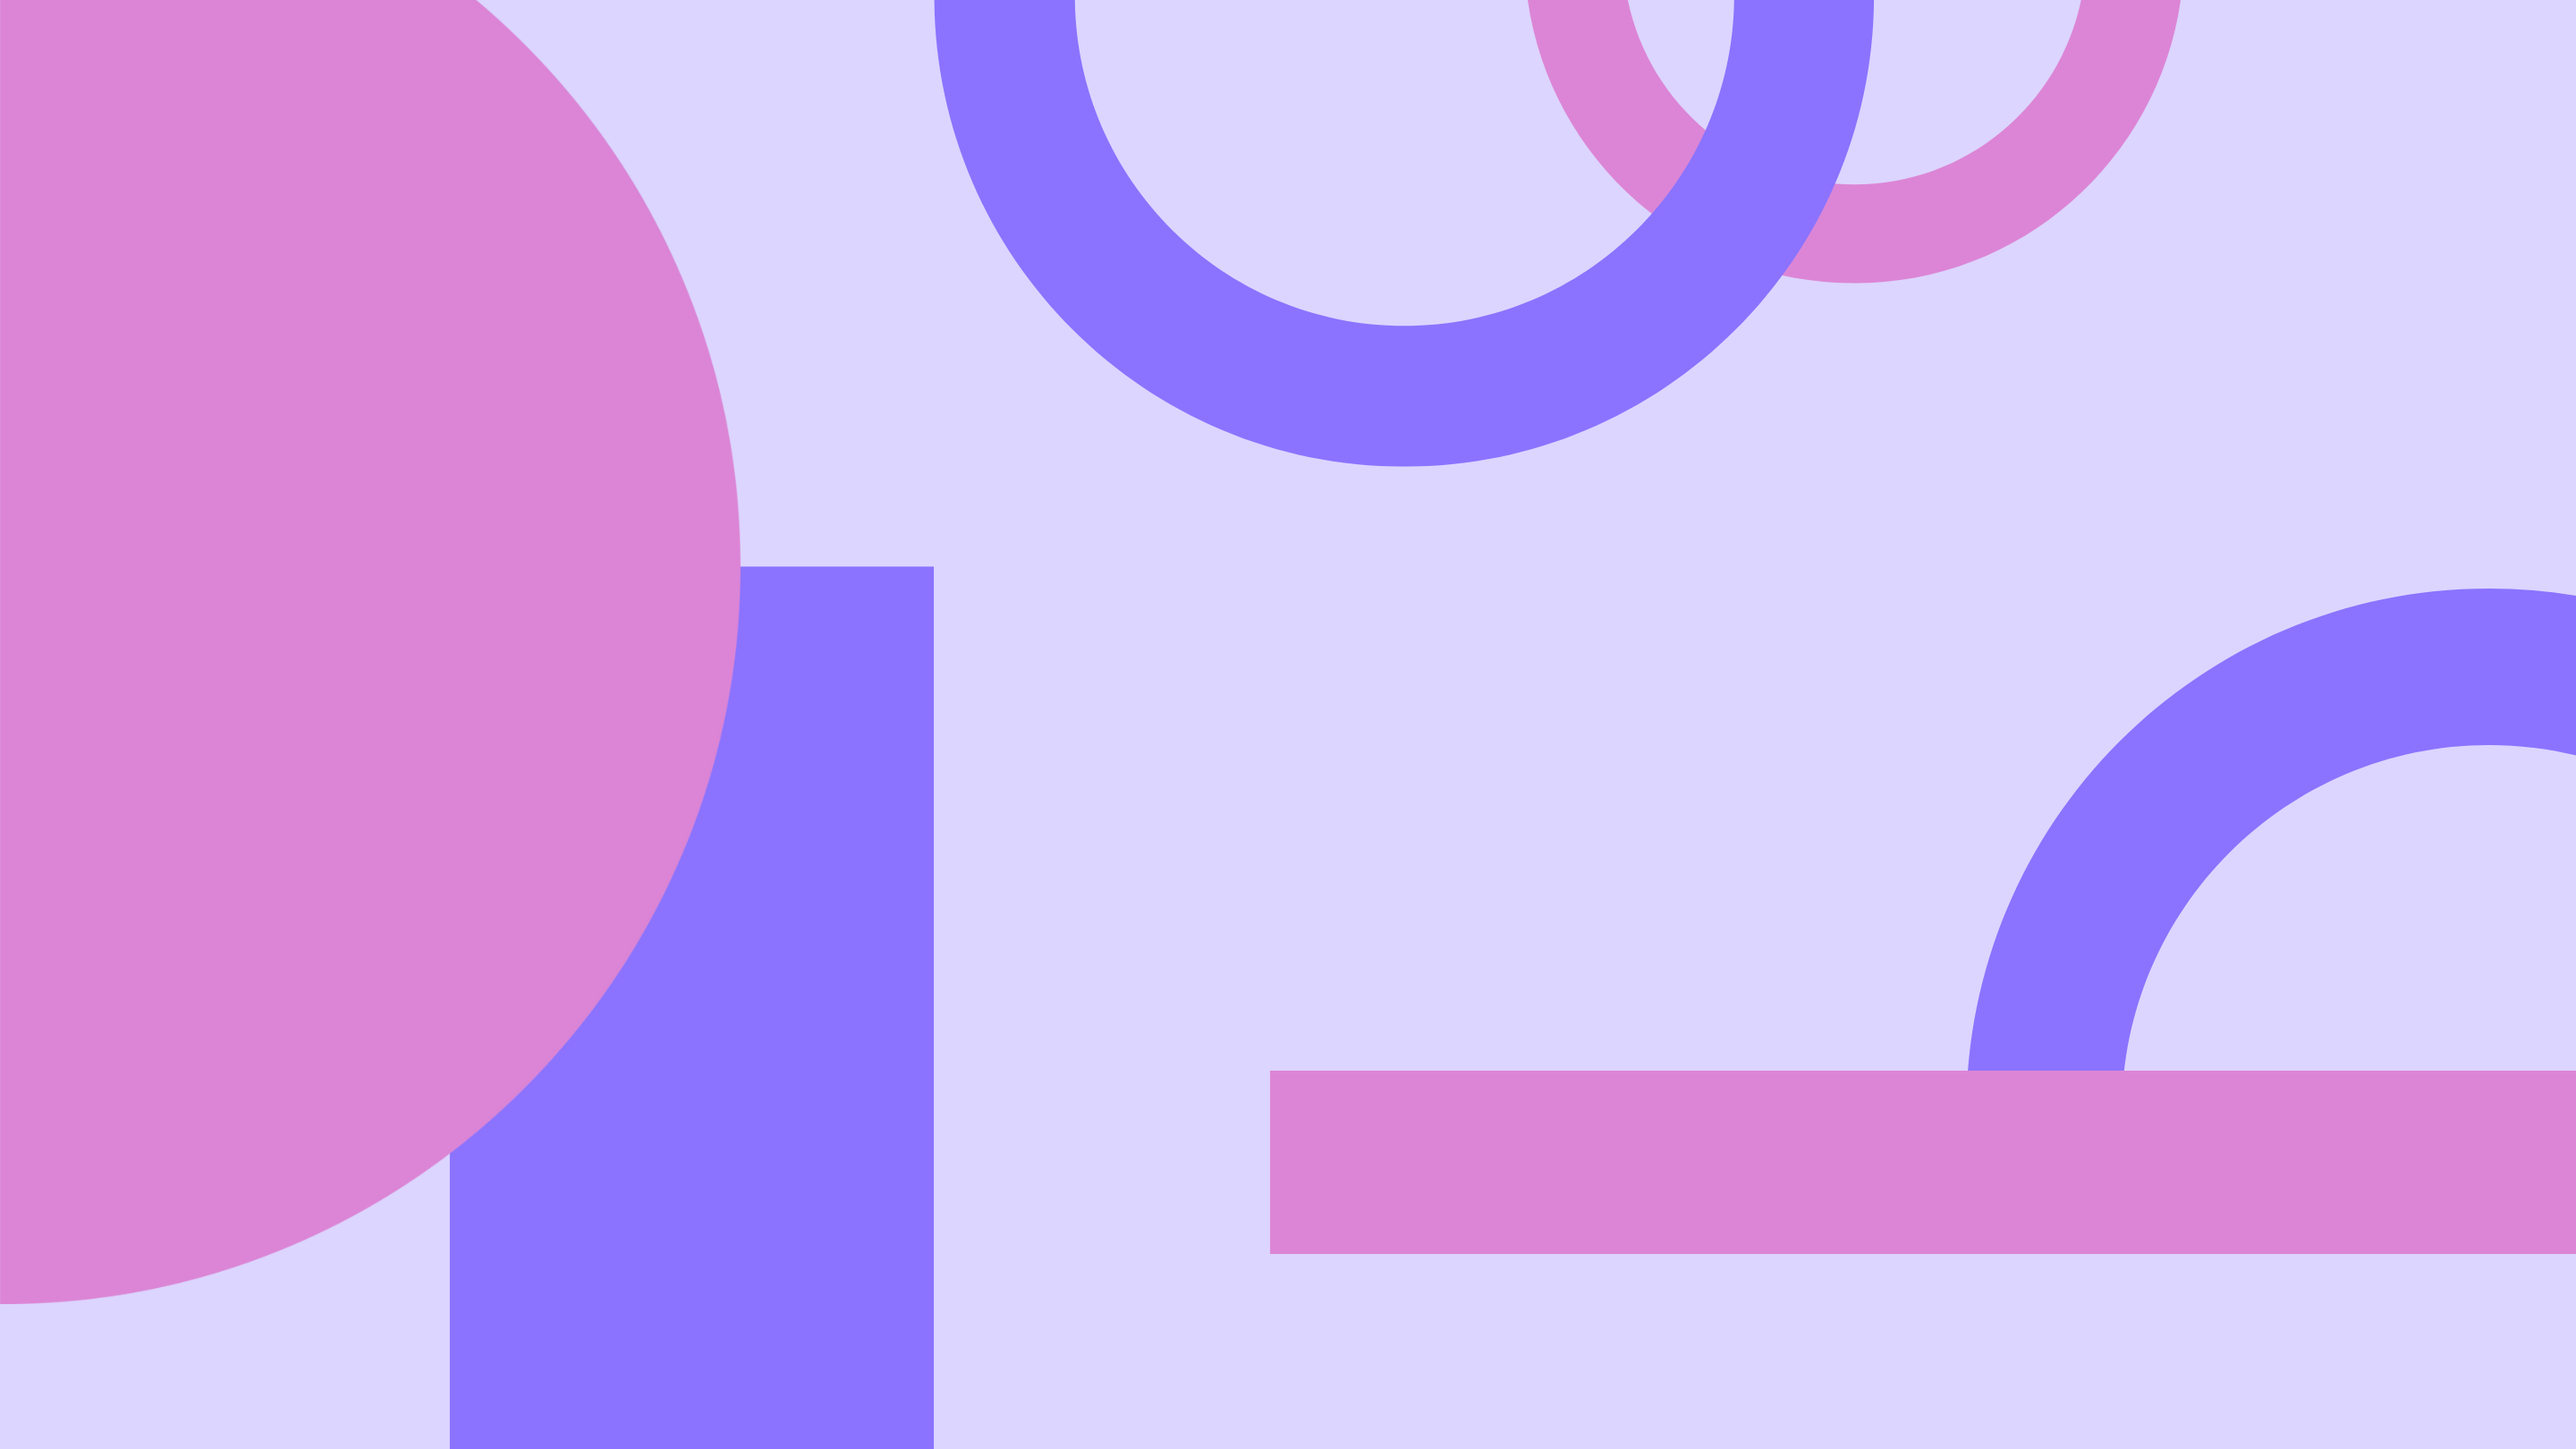
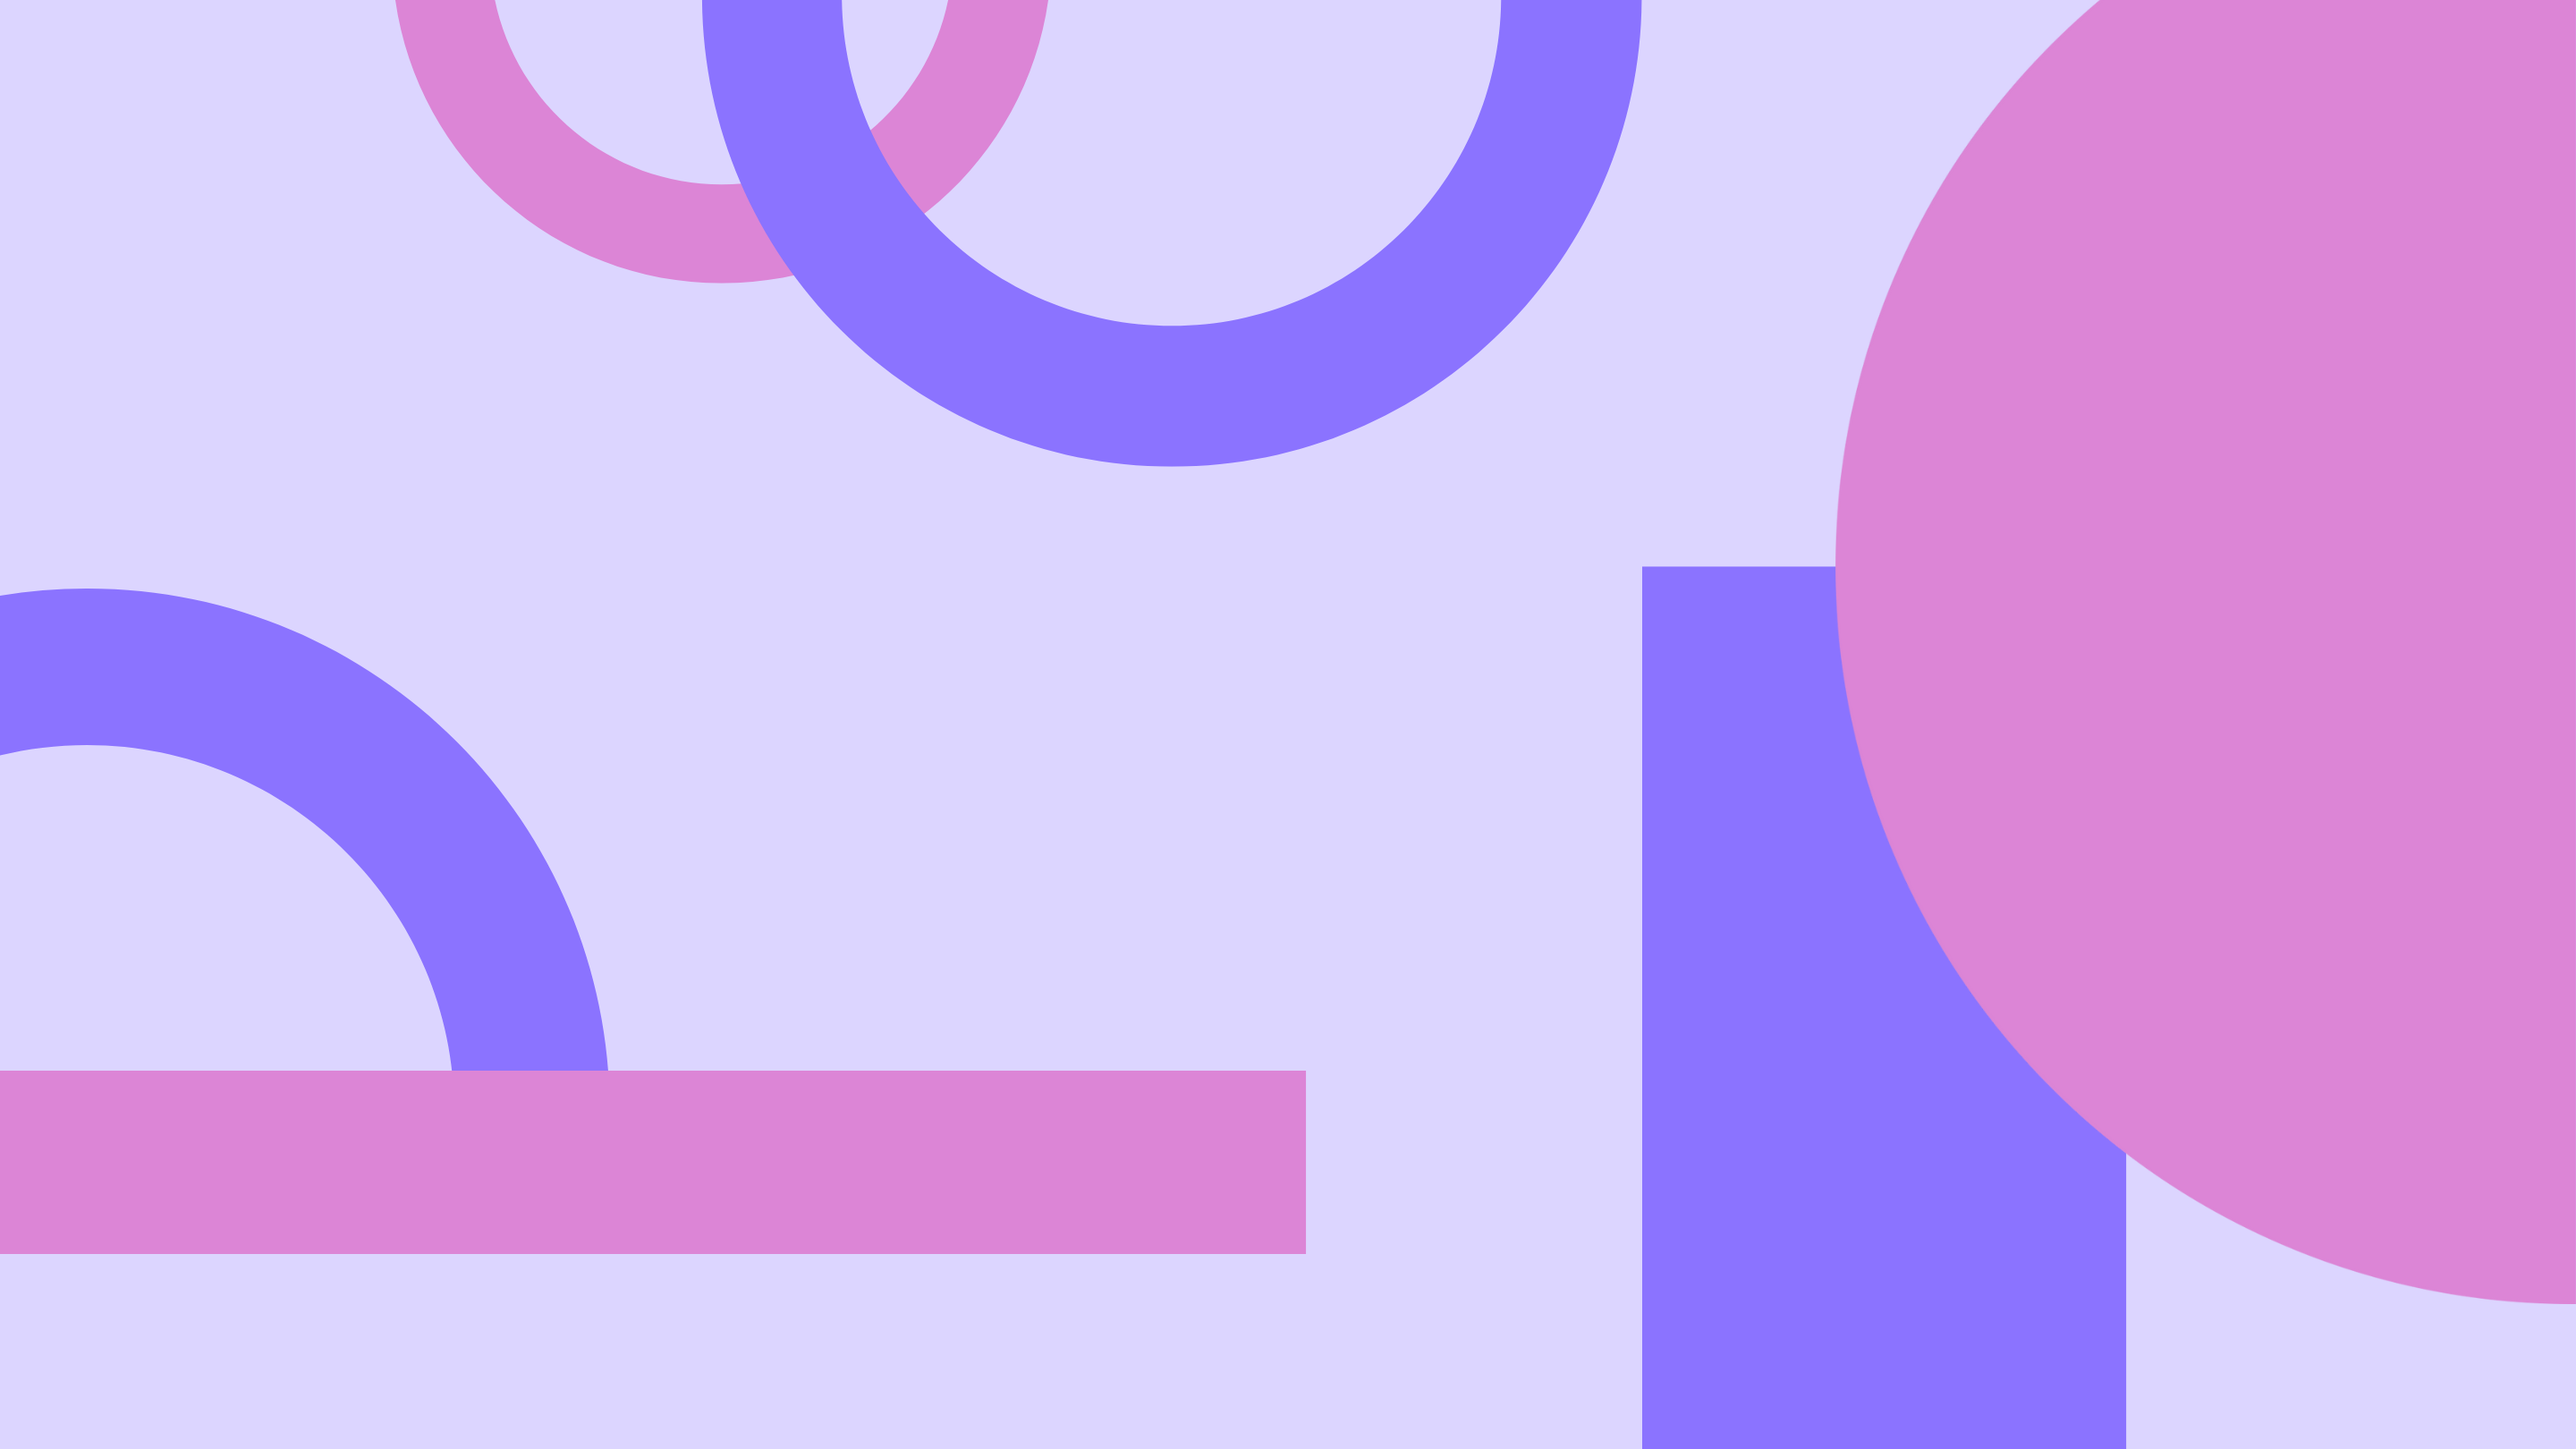
final adjustments

diff --git a/style.css b/style.css
@@ -1,5 +1,5 @@
 /*==============================
-  base -manol
+  Base
 ==============================*/
 body {
   margin: 0;
@@ -14,14 +14,16 @@ html {
 }
 
 /*==============================
-  header ba -manol
+  Header
 ==============================*/
 header {
   background-color: #2d3436;
   color: #fff;
   position: sticky;
+  position: flex;
   top: 0;
-  z-index: 10;
+  width: 100%;
+  z-index: 1000;
   padding: 0.5em 0; 
 }
 
@@ -33,6 +35,7 @@ header .container {
   padding: 0 2em;
   margin: 0 auto;
   width: 100%;
+  height: 90px;
 }
 
 .logo-container {
@@ -83,7 +86,7 @@ header .container {
 }
 
 /*==============================
-  auth buttons -manol
+  Auth Buttons
 ==============================*/
 .auth-buttons {
   display: flex;
@@ -123,7 +126,7 @@ header .container {
 }
 
 /*==============================
-  blank pfp -manol
+  Profile Picture
 ==============================*/
 .profile-dropdown {
   position: relative;
@@ -193,11 +196,11 @@ header .container {
 }
 
 /*==============================
-  hero siksyon -manol
+  Hero Section
 ==============================*/
 .hero {
   position: relative;
-  background: url('backgrounds/main-page-background.png') center / cover no-repeat;
+  background: url('backgrounds/main-page-bg.png') center / cover no-repeat;
   display: flex;
   justify-content: center;
   align-items: center;
@@ -237,7 +240,7 @@ header .container {
 }
 
 /*==============================
-  atits and ibents -manol
+  Artists and Events
 ==============================*/
 .section-artists,
 .section-events {
@@ -312,7 +315,7 @@ header .container {
 }
 
 /*==============================
-  abawt & pawnders -manol
+  About Us
 ==============================*/
 .section-about {
   background-color: #242323; 
@@ -362,7 +365,7 @@ header .container {
 }
 
 /*==============================
-  mga dutdutin -manol
+  Buttons
 ==============================*/
 .btn-artist,
 .btn-event {
@@ -402,7 +405,7 @@ header .container {
 }
 
 /*==============================
-  phuter -manol
+  Footer
 ==============================*/
 .site-footer {
   background-color: #2d3436;
@@ -414,7 +417,7 @@ header .container {
 }
 
 /*==============================
-  forda galaw ng desayn -manol
+  Animations
 ==============================*/
 @media (max-width: 900px) {
   header .container {
@@ -487,7 +490,7 @@ header .container {
 }
 
 /*==============================
-Artist Cards -bea
+  Artist Cards
 ==============================*/
 .main-content {
   padding-top: 3rem;
@@ -611,7 +614,7 @@ body.artists-page {
 }
 
 /*==============================
-  ibints kard - manol
+  Event Cards
 ==============================*/
 .main-content {
   padding: 3rem 20px;
@@ -755,7 +758,7 @@ body.events-page {
 }
 
 /*====================================
-  artists profile template - manol
+  Artist Profiles
 ====================================*/
 
 .artist-profile-page {
@@ -984,7 +987,7 @@ body.events-page {
 }
 
 /*====================================
-event application stuff -bea
+  Event Application
 ====================================*/
 
 .event-application-page {
@@ -1058,6 +1061,7 @@ event application stuff -bea
   border: 1px solid rgba(255, 255, 255, 0.15);
   border-radius: 8px;
   transition: border-color 0.3s ease, background-color 0.3s ease;
+  resize: none;
 }
 
 .application-form input:focus,

diff --git a/artist-profile.html b/artist-profile.html
@@ -26,7 +26,7 @@
       <div class="profile-dropdown">
         <img src="assets/blank-pfp.png" alt="User Avatar" class="avatar-icon" onclick="toggleDropdown()" />
         <div id="dropdownMenu" class="dropdown-menu">
-            <a href="your-profile.html">Profile</a>
+            <a href="profile.html">Profile</a>
             <a href="applications.html">My Events</a>
             <a href="login.html">Logout</a>
         </div>
@@ -62,7 +62,7 @@
     <div class="profile-info-box">
       <div class="socials-contact-group">
         <div class="info-subbox">
-          <h3>Find them on their Socials</h3>
+          <h3>Go Social, Go Amp Up Your Feed!</h3>
           <div id="socials-section"></div>
         </div>
         <div class="info-subbox">
@@ -90,7 +90,7 @@
     &copy; 2025 AMPLY. All rights reserved.
   </footer>
 
-  <script src="user-stuff.js"></script>
+  <script src="profile.js"></script>
   <script src="artists-script.js"></script>
 
 </body>

diff --git a/applications.html b/applications.html
@@ -5,7 +5,7 @@
   <meta name="viewport" content="width=device-width, initial-scale=1.0" />
   <title>My Event Applications | AMPLY</title>
   <link rel="stylesheet" href="style.css" />
-  <link rel="stylesheet" href="user-stuff.css" />
+  <link rel="stylesheet" href="profile.css" />
 </head>
 <body>
 
@@ -27,7 +27,7 @@
       <div class="profile-dropdown">
         <img src="assets/blank-pfp.png" alt="User Avatar" class="avatar-icon" onclick="toggleDropdown()" />
         <div id="dropdownMenu" class="dropdown-menu">
-          <a href="your-profile.html">Profile</a>
+          <a href="profile.html">Profile</a>
           <a href="applications.html">My Events</a>
           <a href="login.html">Logout</a>
         </div>
@@ -49,6 +49,6 @@
   <div class="popup-message" id="popupMessage"></div>
 
   <script src="script.js"></script>
-  <script src="user-stuff.js"></script>
+  <script src="profile.js"></script>
 </body>
 </html>

diff --git a/profile.css b/profile.css
@@ -1,5 +1,5 @@
 /*==============================
-  dummy account page -manol
+  Account Profile 
 ==============================*/
 .hidden {
   display: none !important;
@@ -7,7 +7,7 @@
 
 body {
   position: relative;
-  background: url('backgrounds/main-page-background.png') no-repeat center center fixed;
+  background: url('backgrounds/main-page-bg.png') no-repeat center center fixed;
   background-size: cover;
   margin: 0;
   padding: 0;
@@ -272,7 +272,7 @@ body::before {
 }
 
 /*==============================
-  event management -manol
+  Event Management
 ==============================*/
 .applications-container {
   padding: 3rem 1.5rem;

diff --git a/artists.html b/artists.html
@@ -27,7 +27,7 @@
       <div class="profile-dropdown">
         <img src="assets/blank-pfp.png" alt="User Avatar" class="avatar-icon" onclick="toggleDropdown()" />
         <div id="dropdownMenu" class="dropdown-menu">
-            <a href="your-profile.html">Profile</a>
+            <a href="profile.html">Profile</a>
             <a href="applications.html">My Events</a>
             <a href="login.html">Logout</a>
         </div>
@@ -47,7 +47,7 @@
     &copy; 2025 AMPLY. All rights reserved.
   </footer>
 
-  <script src="user-stuff.js"></script>
+  <script src="profile.js"></script>
   <script src="artists-script.js"></script>
   
 </body>

diff --git a/event-application.html b/event-application.html
@@ -26,7 +26,7 @@
       <div class="profile-dropdown">
         <img src="assets/blank-pfp.png" alt="User Avatar" class="avatar-icon" onclick="toggleDropdown()" />
         <div id="dropdownMenu" class="dropdown-menu">
-            <a href="your-profile.html">Profile</a>
+            <a href="profile.html">Profile</a>
             <a href="applications.html">My Events</a>
             <a href="login.html">Logout</a>
         </div>
@@ -70,7 +70,7 @@
     &copy; 2025 AMPLY. All rights reserved.
   </footer>
 
-  <script src="user-stuff.js"></script>
+  <script src="profile.js"></script>
   <script src="events-script.js"></script>
   
 </body>

diff --git a/events.html b/events.html
@@ -26,7 +26,7 @@
       <div class="profile-dropdown">
         <img src="assets/blank-pfp.png" alt="User Avatar" class="avatar-icon" onclick="toggleDropdown()" />
         <div id="dropdownMenu" class="dropdown-menu">
-            <a href="your-profile.html">Profile</a>
+            <a href="profile.html">Profile</a>
             <a href="applications.html">My Events</a>
             <a href="login.html">Logout</a>
         </div>
@@ -47,7 +47,7 @@
     &copy; 2025 AMPLY. All rights reserved.
   </footer>
 
-  <script src="user-stuff.js"></script>
+  <script src="profile.js"></script>
   <script src="events-script.js"></script>
 
 </body>

diff --git a/index.html b/index.html
@@ -27,7 +27,7 @@
       <div class="profile-dropdown">
         <img src="assets/blank-pfp.png" alt="User Avatar" class="avatar-icon" onclick="toggleDropdown()" />
         <div id="dropdownMenu" class="dropdown-menu">
-            <a href="your-profile.html">Profile</a>
+            <a href="profile.html">Profile</a>
             <a href="applications.html">My Events</a>
             <a href="login.html">Logout</a>
         </div>
@@ -105,7 +105,7 @@
     &copy; 2025 AMPLY. All rights reserved.
   </footer>
 
-  <script src="user-stuff.js"></script>
+  <script src="profile.js"></script>
   <script src="script.js"></script>
 
 </body>

diff --git a/profile.html b/profile.html
@@ -5,7 +5,7 @@
   <meta name="viewport" content="width=device-width, initial-scale=1.0"/>
   <title>My Profile | AMPLY</title>
   <link rel="stylesheet" href="style.css"/>
-  <link rel="stylesheet" href="user-stuff.css"/>
+  <link rel="stylesheet" href="profile.css"/>
 </head>
 <body>
   <header>
@@ -101,7 +101,7 @@
   </footer>
 
   <script src="script.js"></script>
-  <script src="user-stuff.js"></script>
+  <script src="profile.js"></script>
   
 </body>
 </html>

diff --git a/auth-style.css b/auth-style.css
@@ -1,10 +1,10 @@
 /*==============================
-  login/signup design -manol
+  Login / Sign Up Page Design
 ==============================*/
 body {
   margin: 0;
   font-family: 'Segoe UI', Tahoma, Geneva, Verdana, sans-serif;
-  background: url('backgrounds/login-regis-bg.png') no-repeat center center fixed;
+  background: url('backgrounds/login-bg.png') no-repeat center center fixed;
   background-size: cover;
   display: flex;
   justify-content: center;

diff --git a/profile.js b/profile.js
@@ -28,7 +28,6 @@ function showPopup(message, color = '#8b73ff') {
   }, 2500);
 }
 
-
 // USER PROFILE LOGIC 
 let userProfile = {
   name: "DUO:TONE",
@@ -37,7 +36,7 @@ let userProfile = {
   location: "Manila, PH",
   email: "duotone@gmail.com",
   phone: "Private",
-  organization: "DUO:TONE",
+  organization: "Amply",
   website: "duotone.link",
   profilePic: "assets/blank-pfp.png",
   joinedDate: "Jun 2025",
